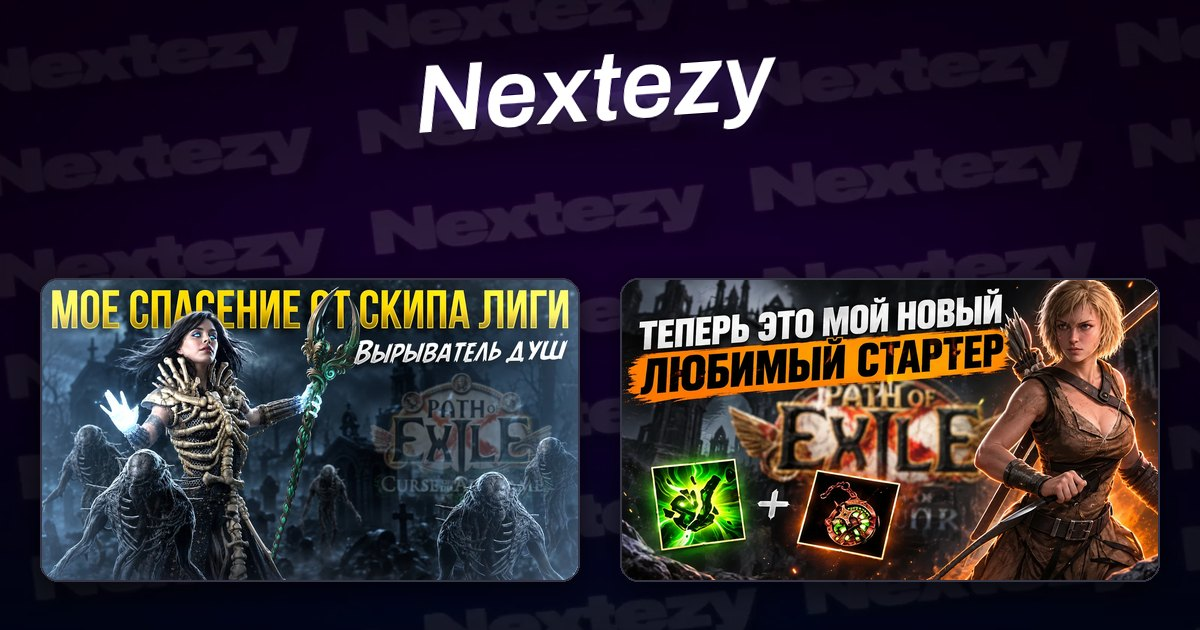
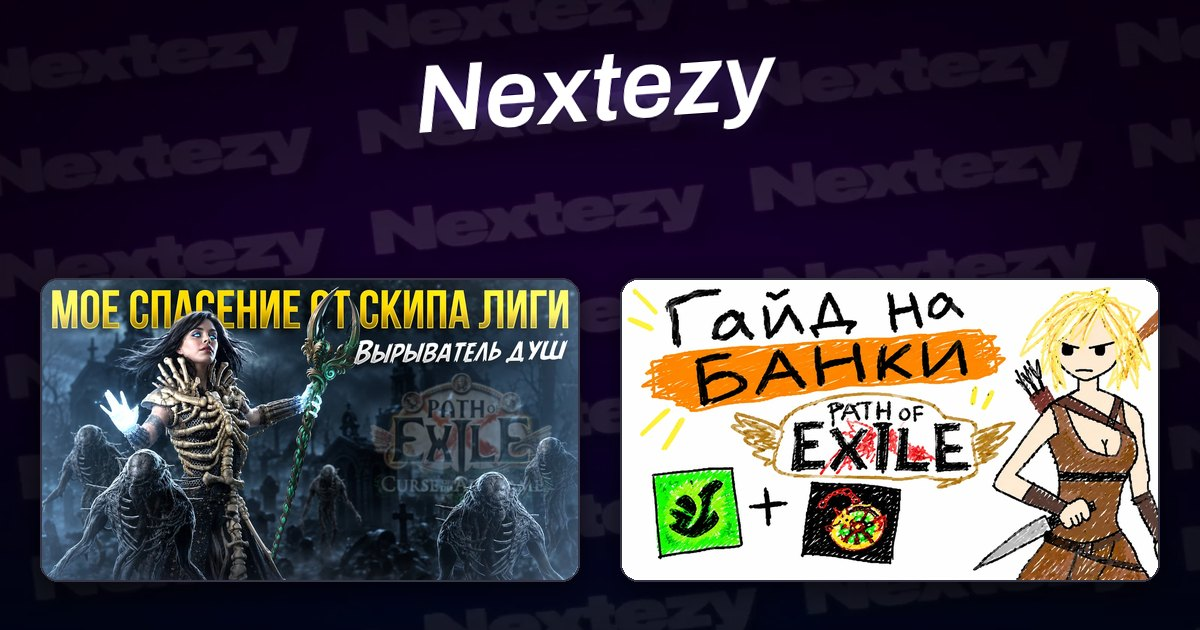
pconc: новое превью «Гайд на банки» (карточка на главной, превью ссылок)
Claude-Session: https://claude.ai/code/session_018VjNUAijUUouHE73EmcBz3

Changed region(s): [[0.4933, 0.4222, 0.9867, 0.9349]]

diff --git a/index.html b/index.html
@@ -19,7 +19,7 @@
 <meta property="og:url" content="https://nextezy.com/">
 <meta property="og:site_name" content="Nextezy">
 <meta property="og:locale" content="ru_RU">
-<meta property="og:image" content="https://nextezy.com/assets/og.jpg">
+<meta property="og:image" content="https://nextezy.com/assets/og.jpg?v=2">
 <meta property="og:image:width" content="1200">
 <meta property="og:image:height" content="630">
 <meta name="twitter:card" content="summary_large_image">
@@ -47,7 +47,7 @@
 <main><div class="wrap" style="padding-block:28px 90px">
 <div class="list">
 <a class="gcard" href="soulwrest/"><div class="gimg"><img src="soulwrest/img/preview.webp" alt="Превью видео: Фантомы через Вырыватель душ" width="1280" height="720"><span class="ver">PoE 1 · 3.30</span></div><div class="gbody"><div class="tags"><span class="chip">Некромант</span><span class="chip">Миньоны</span><span class="chip">Стартер</span></div><h2>Фантомы через Вырыватель душ на Некроманте</h2><p>Весь пинакл контент за пару диванов. Лвлинг, камни, вещи и флаконы.</p></div></a>
-<a class="gcard" href="pconc/"><div class="gimg"><img src="pconc/img/preview.webp?v=2" alt="Превью видео: Отскакивающая ядовитая смесь" width="1280" height="720"><span class="ver">PoE 1 · 3.30</span></div><div class="gbody"><div class="tags"><span class="chip">Следопыт</span><span class="chip">Яд</span><span class="chip">Стартер</span></div><h2>Отскакивающая ядовитая смесь на Следопыте</h2><p>Акты, лабы, карты, грейды и эндгейм версия.</p></div></a>
+<a class="gcard" href="pconc/"><div class="gimg"><img src="pconc/img/preview.webp?v=3" alt="Превью видео: Отскакивающая ядовитая смесь" width="1280" height="720"><span class="ver">PoE 1 · 3.30</span></div><div class="gbody"><div class="tags"><span class="chip">Следопыт</span><span class="chip">Яд</span><span class="chip">Стартер</span></div><h2>Отскакивающая ядовитая смесь на Следопыте</h2><p>Акты, лабы, карты, грейды и эндгейм версия.</p></div></a>
 </div></div></main>
 <footer><div class="wrap foot">
   <div class="foot-top"><span>© Nextezy, 2026</span><a href="privacy/">Политика конфиденциальности</a></div>

diff --git a/pconc/index.html b/pconc/index.html
@@ -19,7 +19,7 @@
 <meta property="og:url" content="https://nextezy.com/pconc/">
 <meta property="og:site_name" content="Nextezy">
 <meta property="og:locale" content="ru_RU">
-<meta property="og:image" content="https://nextezy.com/pconc/img/og.jpg">
+<meta property="og:image" content="https://nextezy.com/pconc/img/og.jpg?v=2">
 <meta property="og:image:width" content="1280">
 <meta property="og:image:height" content="720">
 <meta name="twitter:card" content="summary_large_image">

diff --git a/privacy/index.html b/privacy/index.html
@@ -19,7 +19,7 @@
 <meta property="og:url" content="https://nextezy.com/privacy/">
 <meta property="og:site_name" content="Nextezy">
 <meta property="og:locale" content="ru_RU">
-<meta property="og:image" content="https://nextezy.com/assets/og.jpg">
+<meta property="og:image" content="https://nextezy.com/assets/og.jpg?v=2">
 <meta property="og:image:width" content="1200">
 <meta property="og:image:height" content="630">
 <meta name="twitter:card" content="summary_large_image">
